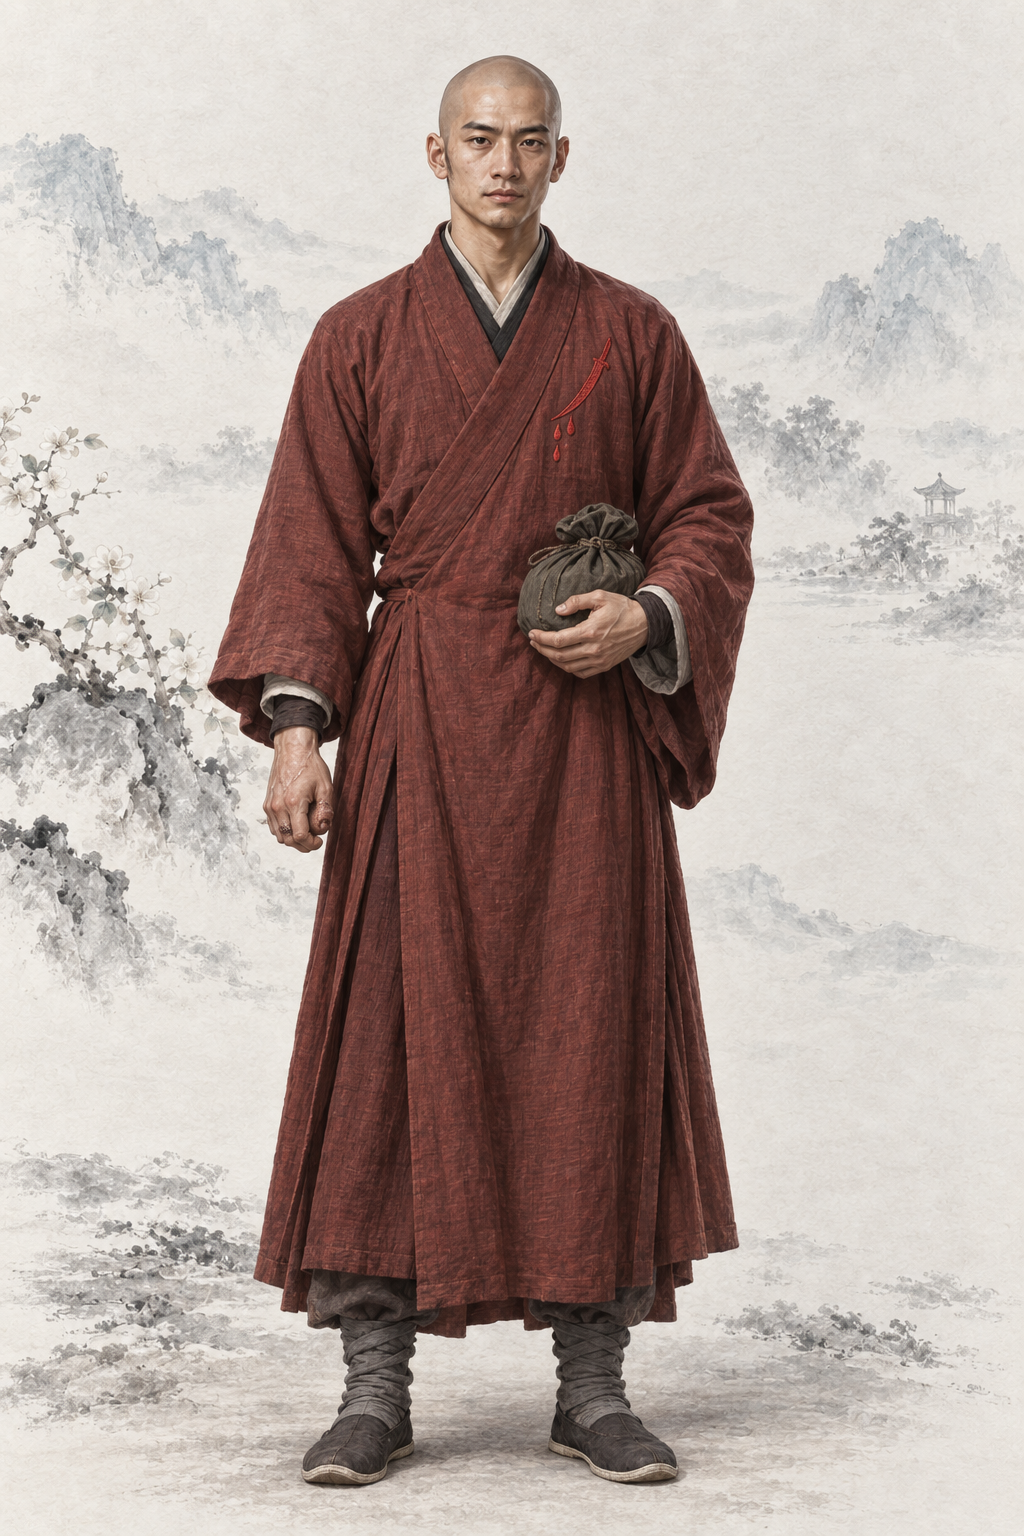
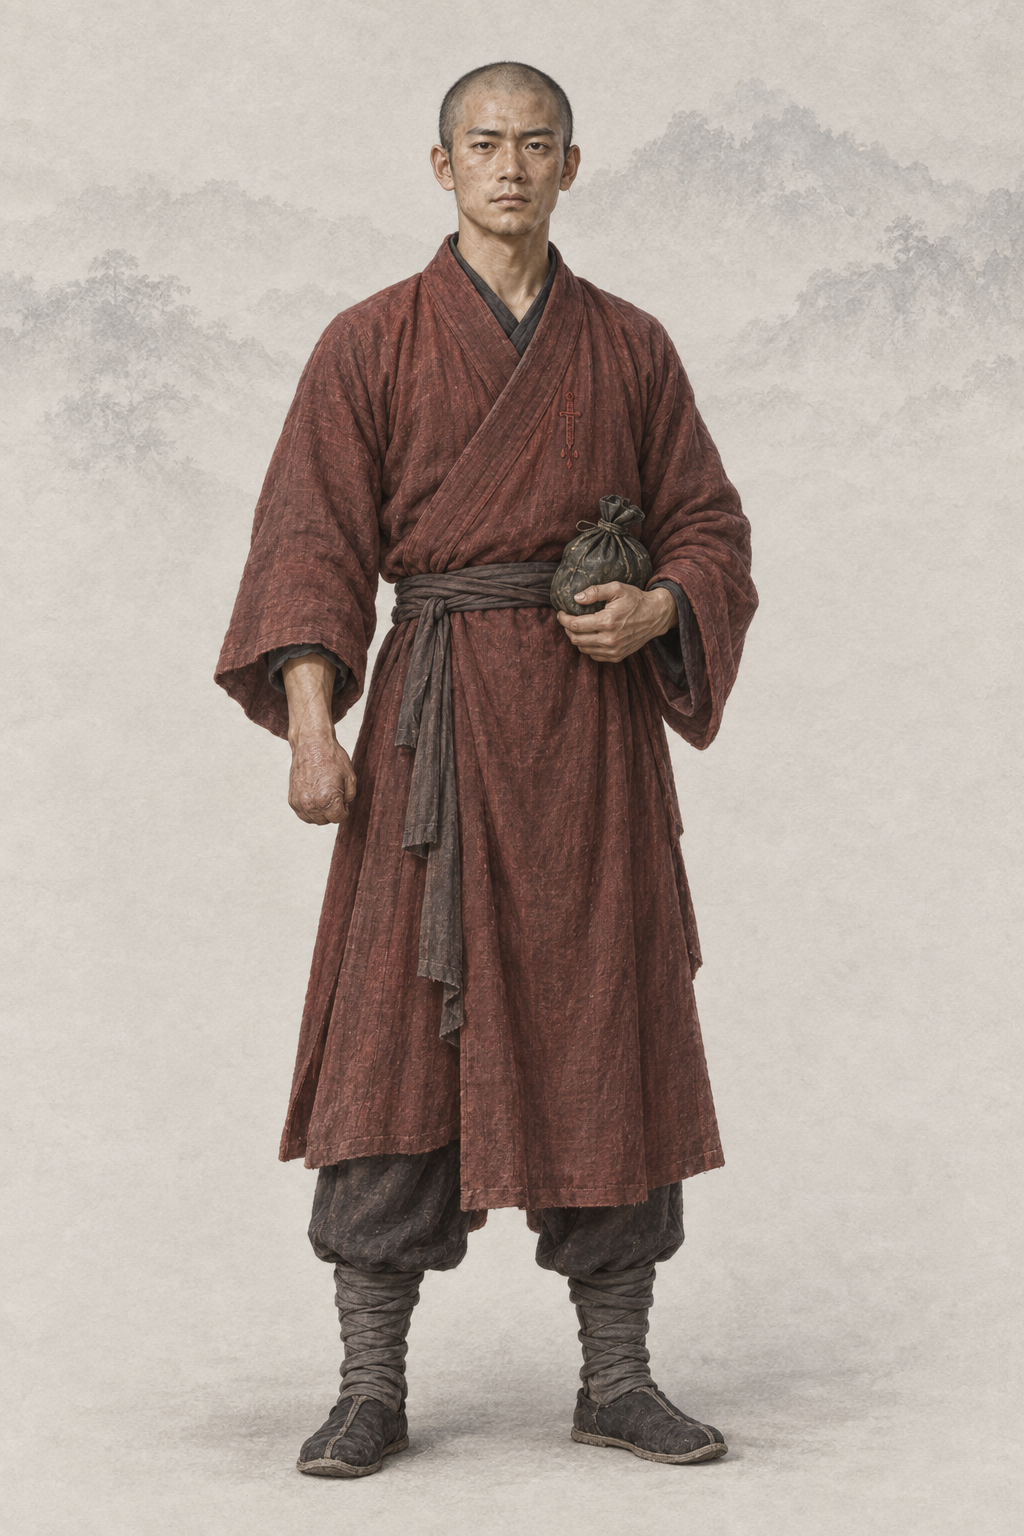
assets(character): por_npc_diyun__ch09_youth_disguise_base 狄云（codex · AR-32 主要角色重出，本机无剧照：本轮新图身份参考 + 基线）
本机无剧照，文字 + 基线，身份参考本轮新图；提示词写回「## Gemini 提示词」，上一版留作历史，frontmatter 加 classic_ref。

diff --git a/assets/default/prompts/characters/ch09-liancheng/npc_diyun.md b/assets/default/prompts/characters/ch09-liancheng/npc_diyun.md
@@ -17,9 +17,39 @@ references:
   use: 第三参考仅背景：极淡水墨远山、薄雾、暖浅灰纸底与留白；本会话已实际view并在写入前核对SHA未变。忽略女性面孔、发型、体态、倾头、白青裙装及饰物；墨痕和纸纹不得进入人物、衣料与器物。
 status: ready
 realism_revision: user_identity_pose_20261001
+classic_ref:
+  version: "无剧照（本机没有2004 年《连城诀》电视剧里该角色的剧照，经典造型用文字描写）"
+  stills: []
+  note: "本机没有该角色的经典版剧照，只用文字和两张同性别基线出图（AR-32）；另上传本轮新出的 por_npc_diyun__ch09_youth_rural_base 作身份参考（放在最前）"
+reference_upload:
+- assets/default/character/male/ch09/por_npc_diyun__ch09_youth_rural_base.png
+- assets/default/baseline/character/male/ref_npc_linghuchong__ch05_base01.png
+- assets/default/baseline/character/male/ref_npc_xiaofeng__ch01_base01.png
+codex_prompt_rev: 2026-10-02
 ---
 
 # 狄云 · 人物写实修正
+
+## Gemini 提示词
+
+> 2026-10-02 AR-32 经典剧照重出（6 号出图员，codex exec · image_gen 出图）：本机没有该角色剧照：上传本轮新出的 por_npc_diyun__ch09_youth_rural_base（同一人物）作身份参考在前、两张同性别基线在后。剧照只借鉴发型、服饰、配色、标志道具、气质与面部特征，重新绘制成项目画风，不照搬照片的构图、光影和姿势；人物一律成年；清代男子按清制剃额留辫。提示词里不写演员名。上一版提示词保留在下一节作历史。
+
+```text
+生成一张 2:3 竖幅全身人物立绘：单人、单一视角、完整全身——头顶、双手、双脚和手中器物的两端都在画面内，四周留出自然空白；人物站姿自然，身体基本朝向正面，头部端正（不歪头、不仰不俯），镜头平视。
+【参考图】随提示词上传 3 张参考图。第 1 张是本轮新画的狄云（湘西乡下常装）立绘，是同一个人：他现在剃光了头、没有胡须、经过多年牢狱更清瘦，但眉眼、鼻唇和脸型仍是同一个人；保持同一张脸（脸型、五官比例、肤色和神态），衣服、发式和姿势按下文文字重画，不要照搬它的构图和站姿。最后两张是本项目画风基线：画风、用色、光线、质感和暖浅灰纸底加淡水墨背景以它们为准。
+【画风】写实手绘古风人物插画，与本项目写实武侠角色立绘同一画风，像功力深厚的画师用细腻笔触画出的真实人物。手绘插画质感，不是 CG 渲染：不要过度光滑的皮肤、完美对称的五官、塑料高光、过度锐利的发丝；保留自然的笔触和细微不完美。皮肤有真实质感——细小毛孔、细纹、晒痕和自然的左右不对称，不磨皮、不油亮；头发是一缕缕自然的发丝和少量碎发；布料看得出经纬纹理、厚薄和自然垂坠的褶皱，带穿用过的轻微旧化，但完整不破烂；整体设色低饱和、沉稳；柔和的自然光从左上方照来，明暗过渡自然，不打舞台光、轮廓光或美颜柔光。不是照片，不是三维渲染，不是动漫或游戏 CG，也不是油画（没有厚涂笔触和画布纹理）。
+【背景】不透明的暖浅灰色纸底，只在远处有极淡的水墨远山和薄雾，大面积留白；人物与背景明暗分明、轮廓边缘干净完整（后续要自动抠图），水墨和纸纹只在背景里，不侵入人物和衣服；脚下只有很淡的一点接触阴影。
+【人物】狄云，《连城诀》男主角；蒙冤入狱多年、在狱中得丁典传授神照经并得到乌蚕衣，出狱后在破庙里换上血刀门宝象的僧衣以躲避追杀的时期（此时双腿完好，尚未受伤）。
+【年龄与体态】约二十四岁的成年青年男子，长期牢狱后清瘦，但骨架结实、肩背宽厚；疲惫但站得笔直。
+【经典造型】要一眼认出是落难的狄云——剃光了头、穿着不合身的暗红旧僧袍，憨厚木讷的乡下青年被逼成了「小和尚」，眼神里是冤屈、疲惫和不服；朴实端正，不丑化。
+【面容】与第 1 张参考图是同一张脸；偏长的脸，颧颊和下颌的转折厚实；较浓、较低的眉毛压着深而偏窄的眼睛；鼻梁长直，鼻头和鼻翼宽实；嘴唇较宽、上唇偏薄；下巴方圆坚实；牢狱让面颊略消瘦、眼下有倦色，但不衰老；肤色温暖略深，有真实的毛孔和细纹。神情憨厚、倔强、带着冤屈。
+【发式】刚剃光的光头（头皮上一层极短的青色发茬），没有胡须；没有戒疤，没有辫子。
+【服饰】暗砖红色的旧僧袍（宝象的僧衣，略不合身），交领右衽（穿着者左襟压右襟），里面穿不透明的内衫和长裤，衣料旧而完整；胸前衣襟上用红线绣着一柄小刀、刀尖下三滴血珠形状的小针脚纹（小而低调的刺绣，不是真的血）；贴身穿着乌黑柔韧的乌蚕衣，只在领口露出一线；灰布绑腿，旧布鞋。
+【道具与姿态】他的右手五根手指在狱中被削断，只剩愈合的手掌（没有手指的残掌，旧伤已愈合、没有血），右手自然垂在身侧；左手五指正常，在腹前托着一个封好的油布小包；不拿兵器，腰间没有刀剑；双脚平稳着地，身体正对前方。
+【不要】画面里不要任何文字、题款、印章、签名、水印、台标、边框、分格或多视图；不要第二个人；不要幼态（童颜、娃娃脸、婴儿肥、儿童或少年身材、大头小身）；不要塑料感皮肤、磨皮美颜、网红脸（尖下巴大眼高鼻的模板脸）、过度对称、浓妆、偶像式打光、蜡像感；不要照片质感、三维渲染或动漫大眼；不要歪头、斜镜头；不要多指、缺指（设定的伤残除外）、手与器物粘连或悬空；汉式交领必须右衽（穿着者的左襟压在右襟上），不要左衽（设定为少数民族服制的除外），不要水平镜像；不要现代物品、日式服饰或日本刀、发光特效、法阵或能量光。不要把右手画成完整的五指，也不要删掉整只右手或前臂；不要把残缺画到左手；不要鲜血、伤口特写、断腿、拐杖；不要血刀、长剑或任何兵器；不要戒疤、辫子、长发或帽子；不要老和尚相或凶恶相；不要把衣襟的刀与血滴刺绣画成真的血迹。
+【画风基线】随提示词上传的参考图里，最后两张是本项目的立绘画风基线：只参考它们的画风、用色、光线、质感和暖浅灰纸底加淡水墨的背景处理，整体画风必须与它们一致——精细写实的数字手绘插画，不是油画，不要厚涂笔触和画布纹理。基线图只取画风，不取长相：不要照搬基线图里人物的长相、年龄、发型、服饰和姿势。
+```
+
 
 ## 人物与阶段
 
